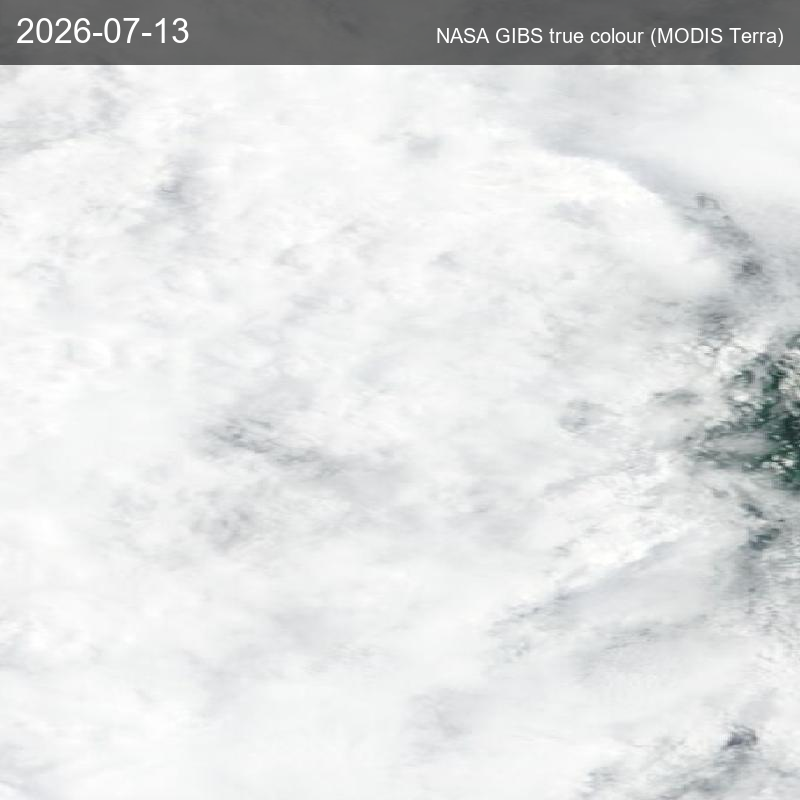
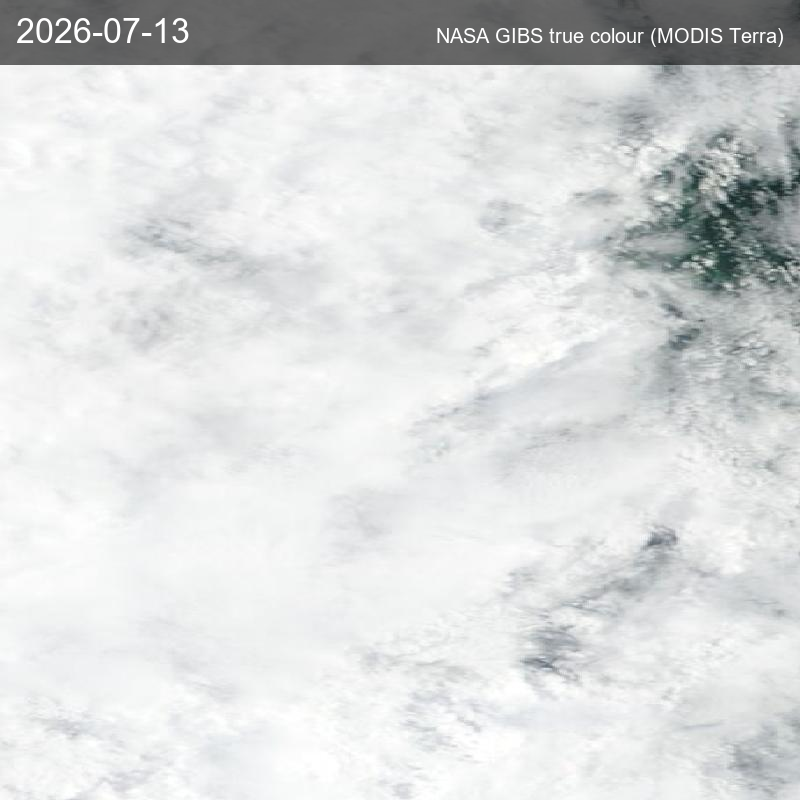
Recover the GIBS July request and rebuild the frames and video from it
The fetch script now uses the original WMS 1.3.0 request (EPSG:4326 lat/lon box
21.0,91.6,23.0,92.6). The downloaded tiles match the earlier ones byte for byte.
Frames and the 23 s GIBS video are rebuilt from the script. The dataset docs
now give the exact parameters and drop the earlier note about an unknown box.

diff --git a/data/gibs/scripts/fetch_gibs_july.py b/data/gibs/scripts/fetch_gibs_july.py
@@ -19,8 +19,9 @@ import requests
 GIBS_BASE = "https://gibs.earthdata.nasa.gov/wms/epsg4326/best/wms.cgi"
 MODIS = "MODIS_Terra_CorrectedReflectance_TrueColor"
 VIIRS = "VIIRS_SNPP_CorrectedReflectance_TrueColor"
-# Chattogram Hill Tracts, lon/lat, as listed in ML_Data_Sources_DRAFT.md.
-BBOX = (91.5, 21.5, 92.5, 23.5)
+# WMS 1.3.0 with CRS=EPSG:4326 uses lat/lon axis order: min lat, min lon, max lat, max lon.
+# This is the exact request used for the frames in the video (verified byte-identical, July 1).
+BBOX = (21.0, 91.6, 23.0, 92.6)
 SIZE = 800
 # Blank GIBS tiles are small JPEGs. These thresholds match build_gibs.py.
 MODIS_MIN_BYTES = 15000
@@ -32,8 +33,8 @@ RAW = os.path.normpath(os.path.join(HERE, "..", "raw"))
 
 def fetch(layer, day):
     qs = (
-        f"SERVICE=WMS&VERSION=1.1.1&REQUEST=GetMap&LAYERS={layer}"
-        f"&TIME={day}&SRS=EPSG:4326"
+        f"SERVICE=WMS&VERSION=1.3.0&REQUEST=GetMap&LAYERS={layer}"
+        f"&TIME={day}&CRS=EPSG:4326"
         f"&BBOX={','.join(str(v) for v in BBOX)}"
         f"&WIDTH={SIZE}&HEIGHT={SIZE}&FORMAT=image/jpeg"
     )

diff --git a/docs/NASA_DATASETS.md b/docs/NASA_DATASETS.md
@@ -27,9 +27,9 @@ Each entry gives the dataset, where to get it, how Route200 uses it, the code th
 - Link: https://earthdata.nasa.gov/gibs (WMS: `https://gibs.earthdata.nasa.gov/wms/epsg4326/best/wms.cgi`)
 - Layers: `MODIS_Terra_CorrectedReflectance_TrueColor` (primary), `VIIRS_SNPP_CorrectedReflectance_TrueColor` (fallback)
 - How we used it: daily frames of the Chattogram Hill Tracts, 1 to 25 July 2026, for the flood-context sequence in the video. Days with no data in either layer (11, 14 and 16 July) are left out, not filled in. Most frames are cloud-covered, so the floods are hard to see in them. VIIRS covers 6, 9, 19 and 24 July.
-- Code: `data/gibs/scripts/fetch_gibs_july.py` (download, bounding box 91.5, 21.5, 92.5, 23.5, 800 x 800 px), `data/gibs/scripts/make_gibs_frames.py` (labelled frames and concat list).
+- Code: `data/gibs/scripts/fetch_gibs_july.py` (download: WMS 1.3.0, `CRS=EPSG:4326`, `BBOX=21.0,91.6,23.0,92.6` in lat/lon order, 800 x 800 px), `data/gibs/scripts/make_gibs_frames.py` (labelled frames and concat list).
 - Processed outputs: `data/gibs/frames/` (22 frames), `data/gibs/list.txt`, `data/gibs/gibs_cht_july2026.mp4`, `media/gibs_full.mp4`.
-- Note: the video clips in `media/` were rendered from an earlier download of the same dates. The frames in `data/gibs/frames/` come from the script above, so they can differ slightly in framing from the clips.
+- Note: the fetch script reproduces the earlier downloads byte for byte. The labels are drawn by `make_gibs_frames.py`, so the text can sit slightly differently from the clips in `media/`, which were labelled with ffmpeg. `gibs_cht_july2026.mp4` in this repo is rebuilt from `frames/` (23 s, 25 fps, 800 x 800).
 - Used in: the video only for the July flood sequence.
 
 ### 4. NASA GIBS IMERG precipitation
@@ -38,14 +38,14 @@ Each entry gives the dataset, where to get it, how Route200 uses it, the code th
 - How we used it: precipitation frames for each hill zone's evidence pack, in the evidence page, to show the rain before and during the July 2026 event.
 - Code: `evidence/scripts/build_evidence.py` (`PRECIP_LAYER`, `part3_daily_gibs`)
 - Processed outputs: `web/public/evidence/<zone>/precip_timeline/`
-- Not in the original form list. Add it to the NASA entries of the submission.
+- Not listed in the submission form. It is listed here because the evidence packs use it.
 
 ## Other space agency data (ESA and Copernicus)
 
 ### 5. Sentinel-1 RTC (Copernicus, Sentinel-1 radar)
 
 - Link: https://planetarycomputer.microsoft.com/dataset/sentinel-1-rtc (collection `sentinel-1-rtc`, VV, radiometrically terrain-corrected)
-- Our current change engine. Before and after radar pairs for each zone's evidence page. The Teknaf scar comes from a May to November 2026 pair: `S1A_IW_GRDH_1SDV_20260504T234811_20260504T234836_064374_081B35_rtc` and `S1D_IW_GRDH_1SDV_20261105T115504_20261105T115529_005332_00A26C_rtc` (185 days apart).
+- The Sentinel-1 differencing in the evidence builder (`build_evidence.py`), which produces before and after radar pairs for each zone's evidence page. The change engine as a running pipeline is not built yet. The Teknaf scar comes from a May to November 2026 pair: `S1A_IW_GRDH_1SDV_20260504T234811_20260504T234836_064374_081B35_rtc` and `S1D_IW_GRDH_1SDV_20261105T115504_20261105T115529_005332_00A26C_rtc` (185 days apart).
 - Code: `evidence/scripts/build_evidence.py` (`part1_before_after`, `part2_july_sar`)
 - Processed outputs: `web/public/evidence/<zone>/` (before, after and difference PNGs, dated SAR frames, `manifest.json`).
 - Used in: the per-zone evidence pages.

diff --git a/PROGRESS.md b/PROGRESS.md
@@ -406,3 +406,12 @@ Checked the six datasets in the submission form against the repo.
 - Video note: `media/` and `data/gibs/gibs_cht_july2026.mp4` were rendered from the earlier download. Re-rendering would change the submitted video, so it is not done.
 - Sentinel-1 RTC, Copernicus DEM GLO-30, and ESA WorldCover: confirmed in `build_evidence.py`, `build_ground_terrain.py` and `web/public/ground-data/`.
 - `docs/NASA_DATASETS.md` rewritten to follow the form: NASA first, then other agencies. Each entry lists the code and outputs. Corrected: the GIBS frames are not video-only (the evidence pages show IMERG and VIIRS), and the Landsat end date is 18 Oct 2026.
+
+## Phase 13: GIBS bounding box recovered, frames and video rebuilt (2026-11-13)
+
+Correction to Phase 12: the original GIBS box was recoverable. The earlier download used WMS 1.3.0 with `CRS=EPSG:4326` and `BBOX=21.0,91.6,23.0,92.6`. For 1.3.0, EPSG:4326 uses lat/lon axis order. Phase 12 tested 1.1.1 with lon/lat order, which is why no candidate matched. Recovered from the earlier session transcript.
+
+- `fetch_gibs_july.py` now uses those exact parameters. All 22 tiles that exist are byte-identical to the originals.
+- Frames regenerated by `make_gibs_frames.py`, and `data/gibs/gibs_cht_july2026.mp4` rebuilt from them (23 s, 25 fps, 800 x 800).
+- The GIBS clips in `media/` were labelled with ffmpeg earlier and were not rebuilt. Same data, slightly different label placement.
+- `docs/NASA_DATASETS.md` and `data/README.md` updated: exact parameters, Sentinel-1 wording (no running change engine yet), and IMERG noted as not listed on the form.

diff --git a/data/README.md b/data/README.md
@@ -40,13 +40,13 @@ Density is `clip((NDVI - 0.0) / (0.9 - 0.0), 0, 1)`, a plain threshold remap. Sc
 |---|---|
 | `gibs/frames/f_2026-07-<dd>.png` | Daily true-colour frames, 1 to 25 July 2026, MODIS with VIIRS fallback. 11, 14 and 16 July have no usable image and are left out. |
 | `gibs/list.txt` | Concat list for the frames |
-| `gibs/gibs_cht_july2026.mp4` | Flood-context sequence |
+| `gibs/gibs_cht_july2026.mp4` | Flood-context sequence, 23 s, rebuilt from `gibs/frames/` |
 | `gibs/scripts/fetch_gibs_july.py` | Downloads the daily tiles into `gibs/raw/` (not committed). MODIS first, VIIRS when MODIS is blank. |
 | `gibs/scripts/make_gibs_frames.py` | Labels the tiles and writes `frames/` and `list.txt` |
 | `media/gibs_full.mp4` | Full-frame 1920x1080 version |
 | `../web/public/evidence/<zone>/precip_timeline/` | IMERG precipitation frames used in the zone evidence packs |
 
-Layers: `MODIS_Terra_CorrectedReflectance_TrueColor`, `VIIRS_SNPP_CorrectedReflectance_TrueColor`, and the IMERG precipitation rate layer. The IMERG layer was not in the original dataset list and should be added to the submission form.
+Layers: `MODIS_Terra_CorrectedReflectance_TrueColor`, `VIIRS_SNPP_CorrectedReflectance_TrueColor`, and the IMERG precipitation rate layer. The IMERG layer is not listed in the submission form, though the evidence packs use it.
 
 ## Partner datasets (not NASA)
 
